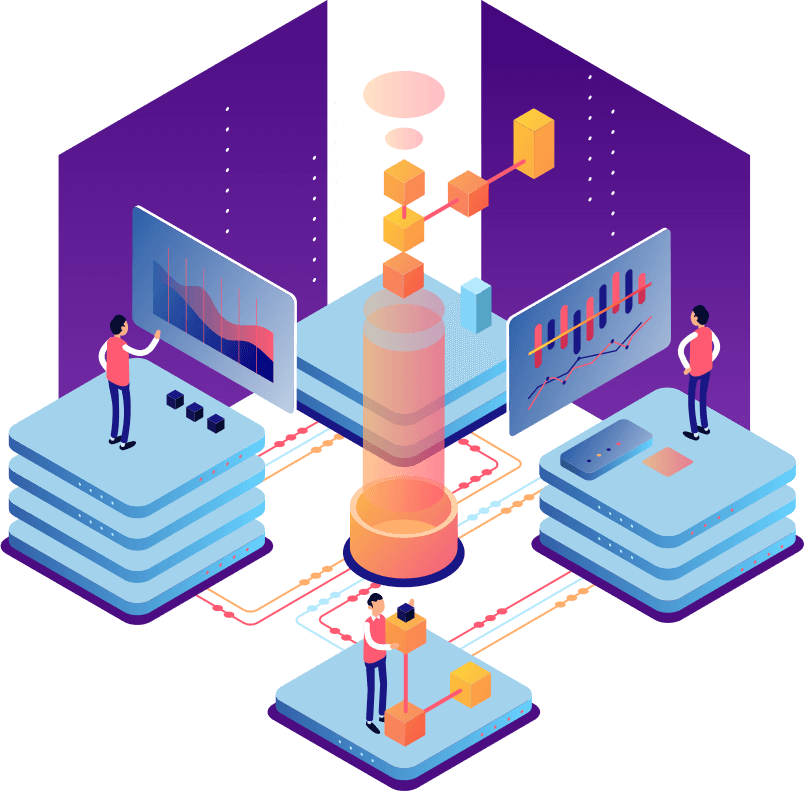
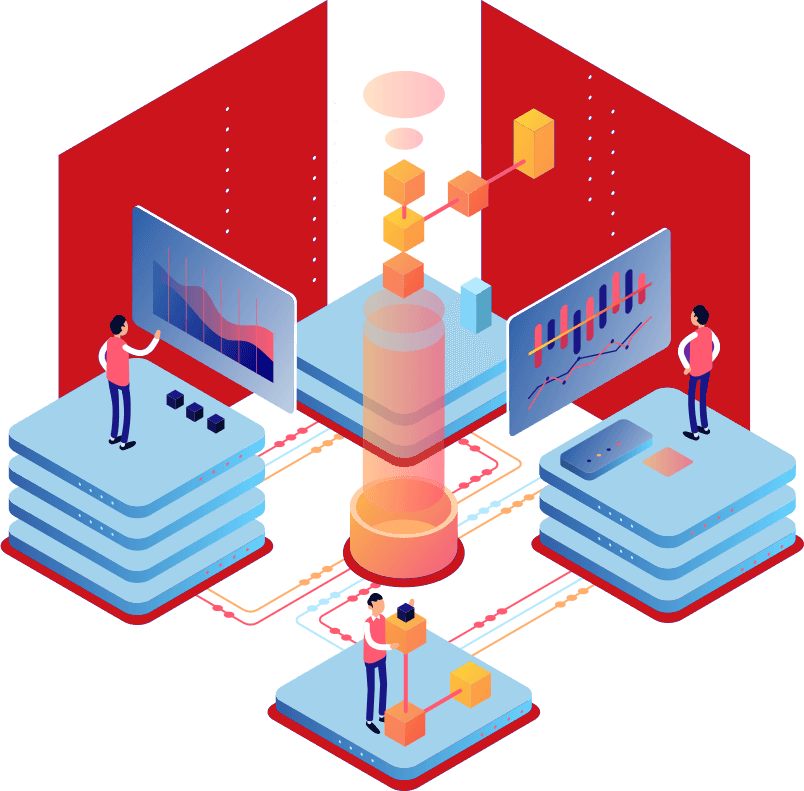
changed theme to red

diff --git a/assets/css/screen.css b/assets/css/screen.css
@@ -1,0 +1,93 @@
+#hero{
+    background: linear-gradient(45deg, rgb(228 11 11 / 90%) 0%, rgb(0 0 0 / 90%) 100%), url(../img/hero-bg.jpg) center center no-repeat;
+}
+#header.header-scrolled, #header.header-inner-pages{
+    background: rgb(185 6 6 / 80%);
+}
+.about .content .read-more {
+    background-color: #cc141c;
+    border: 0.18rem solid #cc141c;
+    transition: 0.5s;
+}
+
+.about .content .read-more:hover {
+    background-color: white;
+    color:red;
+    border-radius: 5px;
+    border: 0.18rem solid #cc141c;
+  }
+  #hero .btn-get-started:hover {
+    background: #fff;
+    color: #cc141c;
+  }
+
+  .about .content ul i {
+    font-size: 20px;
+    padding-right: 4px;
+    color: #ff000d;;
+}
+.section-title h2::after{
+    background: red;
+}
+.portfolio #portfolio-flters li:hover, .portfolio #portfolio-flters li.filter-active{
+    background: red;
+}
+.back-to-top {
+    background: #cc141c;
+    border-radius: 5px;
+}
+.back-to-top:hover{
+    background: red;
+    color: red;
+}
+#footer {
+    color: rgb(255, 255, 255);
+    font-size: 14px;
+    background: linear-gradient(45deg, rgba(255, 0, 0, 0.9) 0%, rgba(214, 138, 15, 0.9) 100%) 0% 0% / cover, url(../img/hero-bg.jpg) center center no-repeat;
+}
+#footer .copyright-wrap {
+    border-top: 0px solid red;
+}
+.contact .info-box i {
+    font-size: 32px;
+    color: red;
+    border-radius: 50%;
+    padding: 8px;
+}
+a{
+    text-decoration: none;
+    color:#cc141c;
+    transition: 0.5s;
+}
+a:hover{
+    color:red;
+}
+#preloader:before {
+    content: "";
+    position: fixed;
+    top: calc(50% - 30px);
+    left: calc(50% - 30px);
+    border: 6px solid red;
+    border-top-color: #e7e4fe;
+    border-radius: 50%;
+    width: 60px;
+    height: 60px;
+    animation: animate-preloader 1s linear infinite;
+  }
+  .portfolio .portfolio-wrap::before {
+    content: "";
+    background: rgb(255, 78, 78);
+    position: absolute;
+    left: 30px;
+    right: 30px;
+    top: 30px;
+    bottom: 30px;
+    transition: all ease-in-out 0.3s;
+    z-index: 2;
+    opacity: 0;
+}
+.img-fluid {
+    max-width: 55%;
+    margin-left: 8rem;
+    height: auto;
+}

diff --git a/index.html b/index.html
@@ -88,7 +88,7 @@
 
         <div class="row">
           <div class="col-lg-6 order-1 order-lg-2" data-aos="zoom-in" data-aos-delay="150">
-            <img src="assets/img/about.jpg" class="img-fluid" alt="">
+            <img src="assets/img/features.png" class="img-fluid" alt="">
           </div>
           <div class="col-lg-6 pt-4 pt-lg-0 order-2 order-lg-1 content" data-aos="fade-right">
             <h3>Wie zijn wij?</h3>

diff --git a/assets/css/style.css b/assets/css/style.css
@@ -623,15 +623,10 @@ section {
   display: inline-block;
   padding: 10px 50px 10px 28px;
   border-radius: 5px;
-  transition: 0.5s;
   color: #fff;
-  background: linear-gradient(45deg, #5846f9 0%, #7b27d8 100%);
   position: relative;
 }
 
-.about .content .read-more:hover {
-  background: linear-gradient(180deg, #5846f9 0%, #7b27d8 100%);
-}
 
 .about .content .read-more i {
   font-size: 22px;
